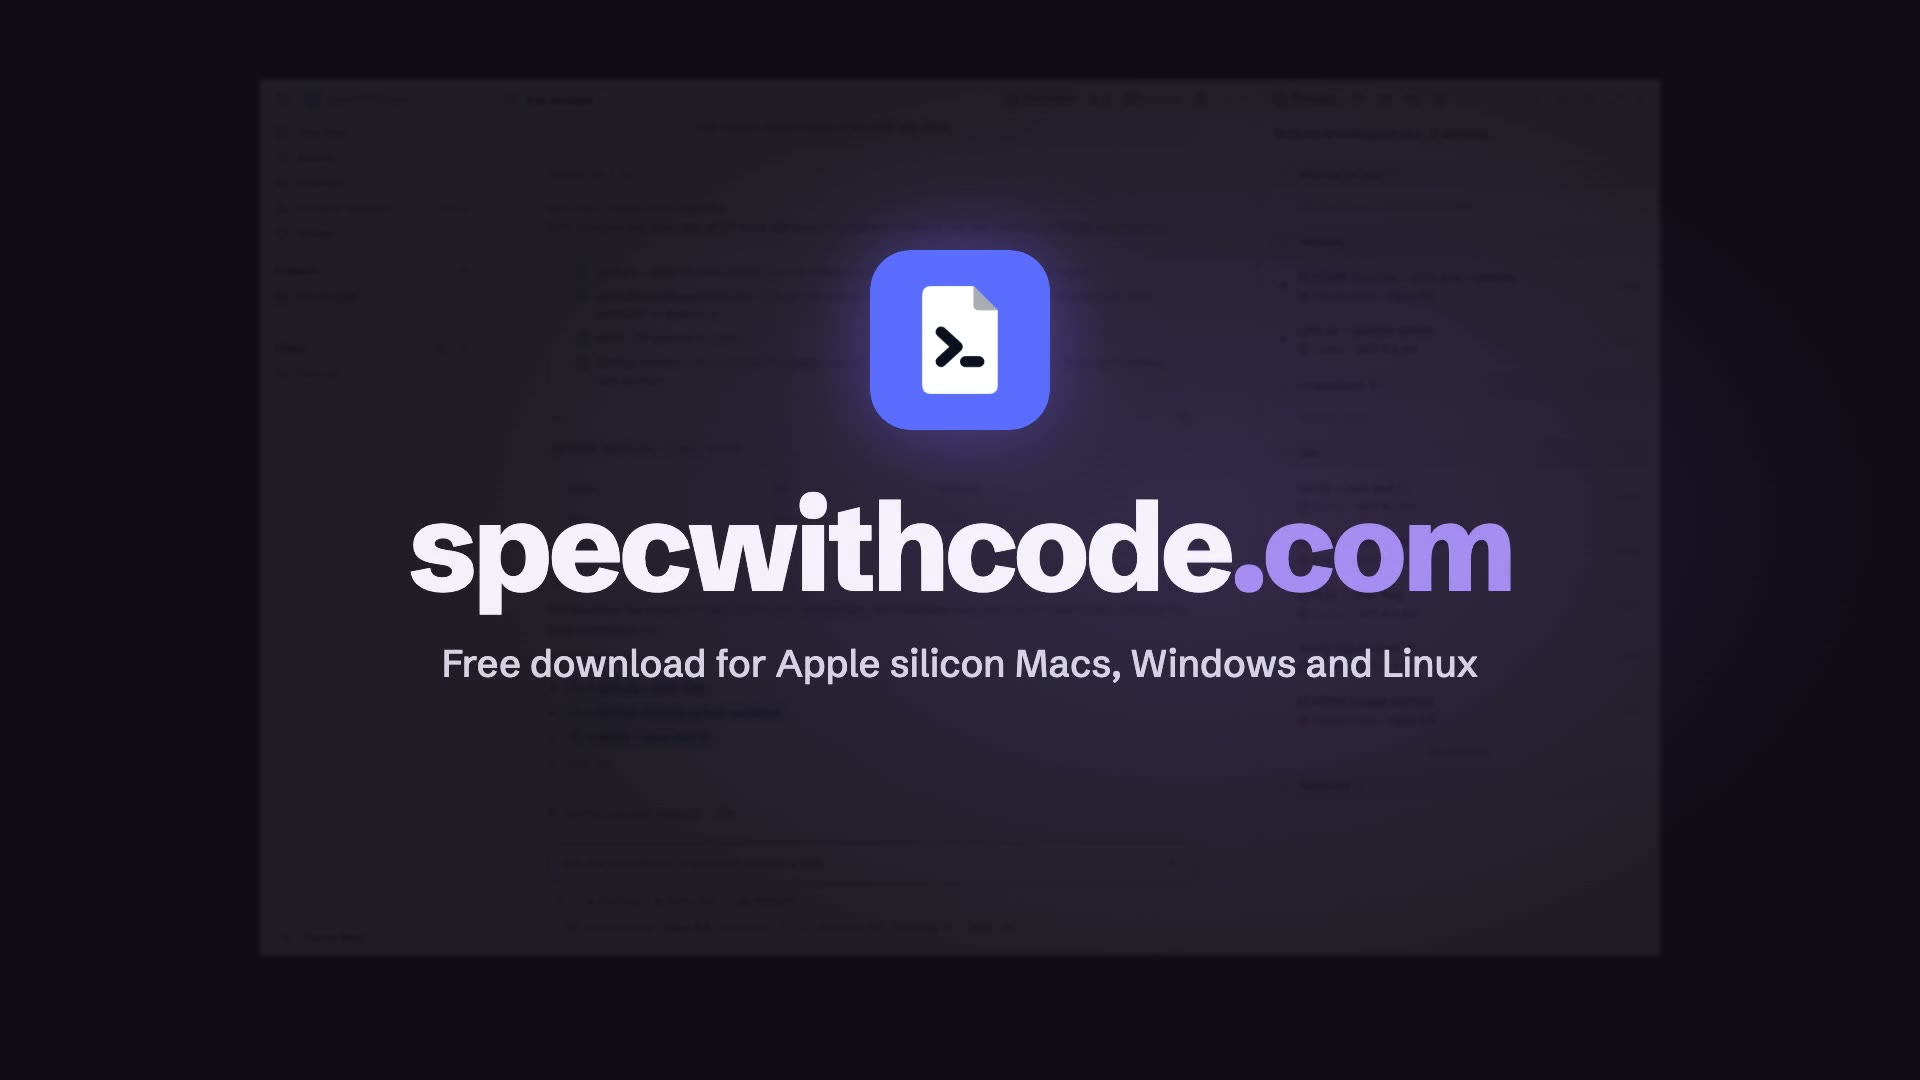
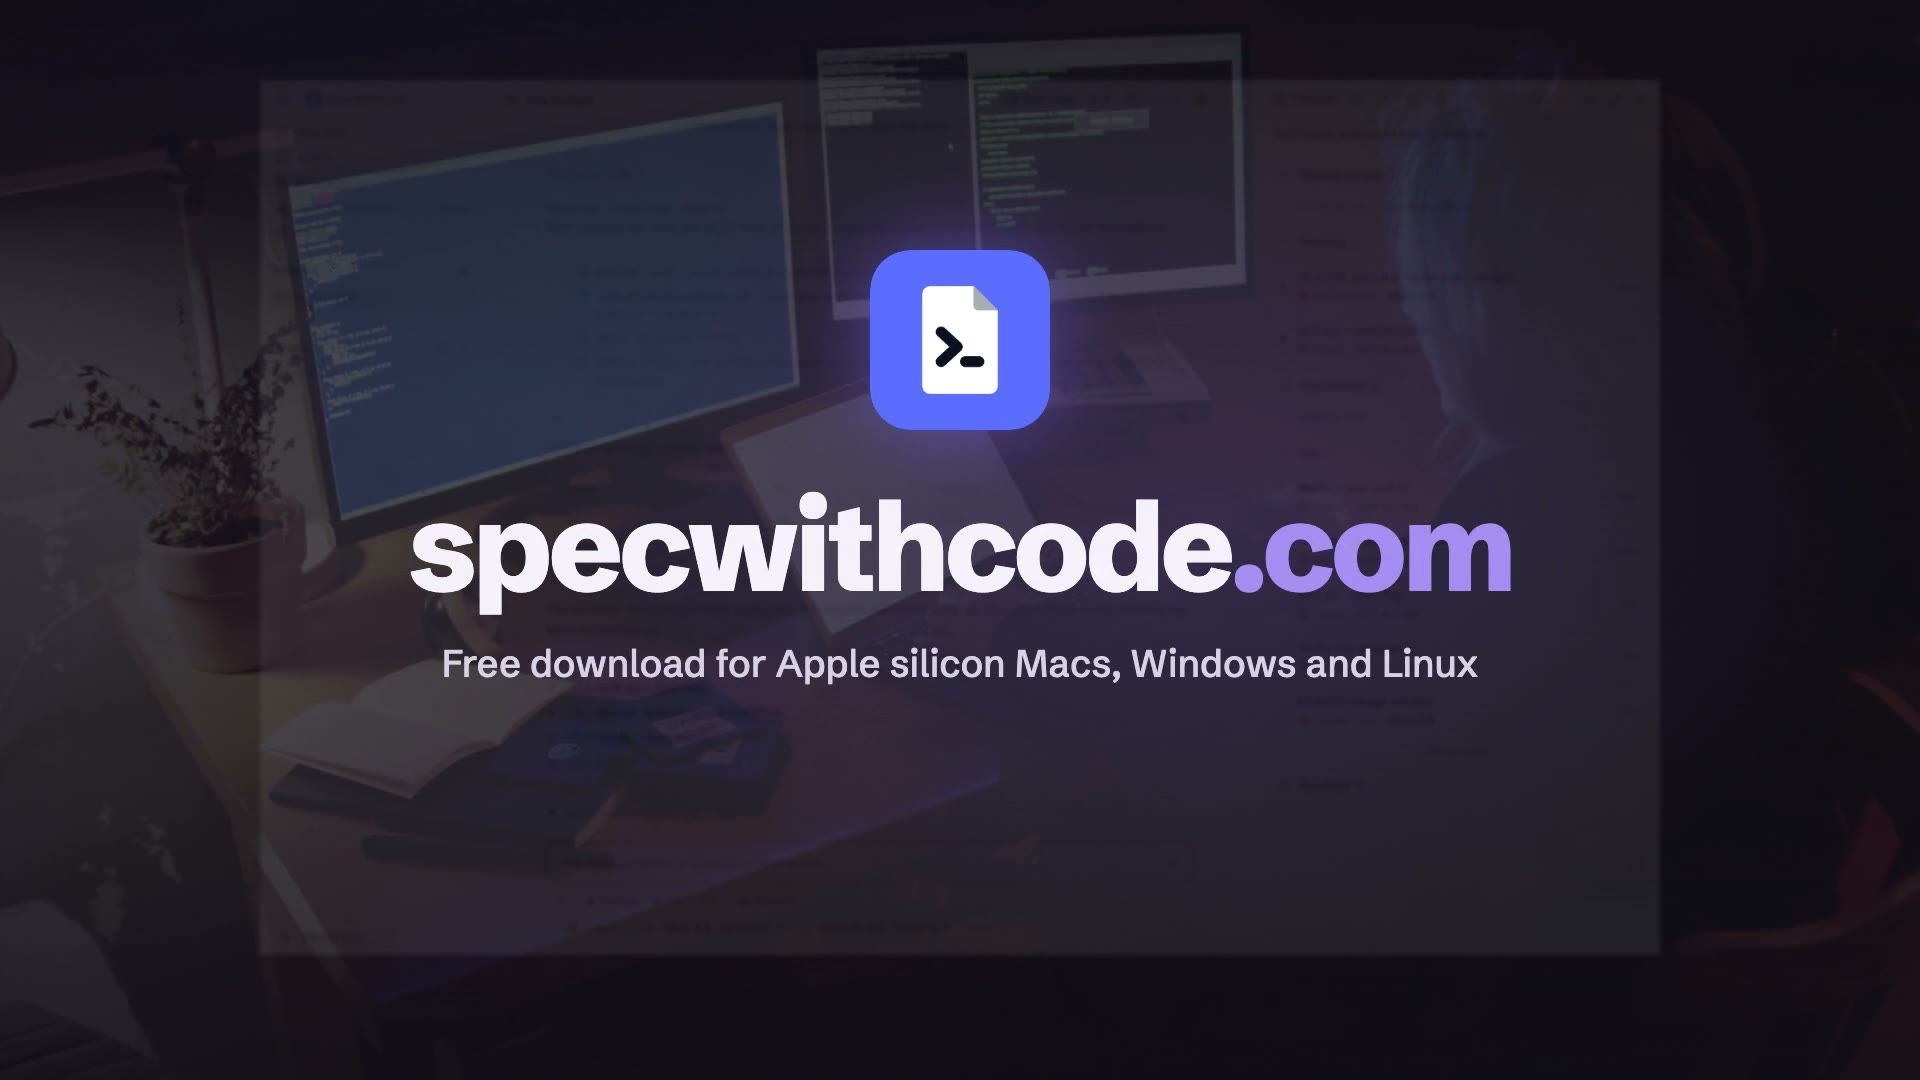
Homepage promo: photo B-roll behind every scene

diff --git a/video/promo/scene/v2.html b/video/promo/scene/v2.html
@@ -57,8 +57,24 @@ th.sw{color:var(--v)}
 td .plogo{margin-right:10px;position:relative;top:-2px}
 th .plogo{margin-right:10px;position:relative;top:-2px}
 .url{position:absolute;left:0;right:0;text-align:center;font-weight:800;letter-spacing:-.04em}
+/* B-roll: a licensed photo behind every scene (video/shared/broll), dimmed under a scrim so text stays legible */
+#broll{position:absolute;inset:0;overflow:hidden}
+#broll img{position:absolute;inset:0;width:100%;height:100%;object-fit:cover;opacity:0;filter:saturate(.9) brightness(.8)}
+.scrim{position:absolute;inset:0;background:linear-gradient(180deg,rgba(16,13,23,.86) 0%,rgba(16,13,23,.62) 38%,rgba(16,13,23,.66) 70%,rgba(16,13,23,.86) 100%),linear-gradient(90deg,rgba(41,28,71,.35),rgba(16,13,23,0) 60%)}
 </style></head>
 <body>
+<div id="broll">
+  <img id="br01" src="../../shared/broll/dev-night-desk.jpg" alt="">
+  <img id="br02" src="../../shared/broll/hourglass-laptop.jpg" alt="">
+  <img id="br03" src="../../shared/broll/laptop-coffee.jpg" alt="">
+  <img id="br04" src="../../shared/broll/developer-monitor.jpg" alt="">
+  <img id="br07" src="../../shared/broll/typing-laptop.jpg" alt="">
+  <img id="br08" src="../../shared/broll/network-switch.jpg" alt="">
+  <img id="br09" src="../../shared/broll/code-terminal.jpg" alt="">
+  <img id="br10" src="../../shared/broll/pc-tower.jpg" alt="">
+  <img id="br11" src="../../shared/broll/dev-night-desk-2.jpg" alt="">
+</div>
+<div class="scrim"></div>
 <div class="glow"></div>
 
 <!-- s01 0.0-4.4: one app per lab -->
@@ -293,6 +309,12 @@ SCENE('s11', 61.2, 6.8); A('#eIcon', [{ opacity: 0, scale: .85 }, { opacity: 1, 
 A('#eUrl', [{ opacity: 0, clipPath: 'inset(0 100% 0 0)' }, { opacity: 1, clipPath: 'inset(0 0% 0 0)' }], 62.6, .8, { e: 'ease-out' }); IN('#eSub', 61.8);
 A('#s11', [{ opacity: 1 }, { opacity: 1 }], 67.65, .35, { f: 'forwards' });
 
+// B-roll: each photo fades in with its scene and drifts slowly (Ken Burns)
+const BR = (id, t0, dur, from = 1.0, to = 1.08, dx = -24) => {
+  A('#' + id, [{ opacity: 0 }, { opacity: 1 }], t0, .5, { e: 'linear' }); A('#' + id, [{ opacity: 1 }, { opacity: 0 }], t0 + dur - .45, .45, { e: 'linear', f: 'forwards' });
+  A('#' + id, [{ transform: `scale(${from}) translateX(0px)` }, { transform: `scale(${to}) translateX(${dx}px)` }], t0, dur, { e: 'linear' }); };
+BR('br01', 0, 4.6); BR('br02', 4.3, 4.4, 1.08, 1.0, 20); BR('br03', 8.5, 3.2); BR('br04', 11.5, 7.3, 1.06, 1.0, 16);
+BR('br07', 31.1, 5.4); BR('br08', 36.3, 8.4, 1.08, 1.0, 20); BR('br09', 44.5, 5.2); BR('br10', 49.5, 11.8, 1.0, 1.06, -16); BR('br11', 61.1, 6.9);
 window.seek = t => { for (const a of document.getAnimations()) { a.pause(); a.currentTime = t * 1000; } };
 window.seek(0);
 </script>
